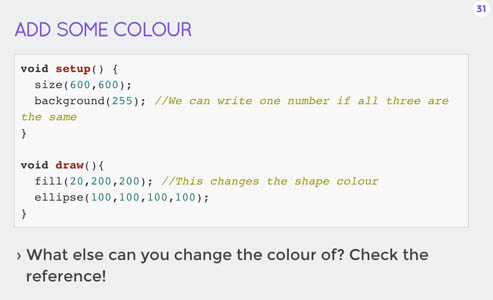
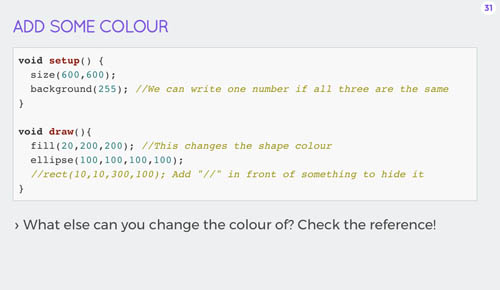
added notes

diff --git a/notes-en.html b/notes-en.html
@@ -216,7 +216,10 @@
               <td> If we want to know what Processing can do, or what it already knows, we can check here.
               <br><br>
               Throughout the workshop, if you want to figure out how to do something, check the reference first! You'll probably be able to find it here by looking for key words. (e.g. if you want to draw a rectangle)
-              <br><br>(Show learners how to use Ctrl+F to search for key words in the reference)</td>
+              <br><br>(Show learners how to use Ctrl+F to search for key words in the reference)
+              <br><br>(When presenting the example resources to the class, make sure you highlight the different shapes that can be drawn in Processing.
+              Show the class the shape primitives or even look at [https://processing.org/tutorials/drawing/] for examples of how to use them.)
+              </td>
             </tr><tr>
               <td><img src="framework/img/workshop/slides/29.jpg" alt="slide"></td>
               <td> (Show learners where the ellipse is in the reference and encourage them to change the numbers for each value to something else - or try to draw another shape e.g. a rectangle)</td>
@@ -233,7 +236,8 @@
               RGB colours are additive, which means that adding full colour (255 of everything) makes white (pure light). When we take away all of the color we get black.</td>
             </tr><tr>
               <td><img src="framework/img/workshop/slides/31.jpg" alt="slide"></td>
-              <td> We need to tell the computer what colour the circle is before we draw it. Try making two circles that are each a different colour. </td>
+              <td> We need to tell the computer what colour the circle is before we draw it. Try making two circles that are each a different colour.
+              <br><br> *Side note*: If you ever want to get rid of a shape that you've drawn, either delete that line of code, or make it into a comment using "//"</td>
             </tr><tr>
               <td><img src="framework/img/workshop/slides/32.jpg" alt="slide"></td>
               <td> (Show learners how to save)
@@ -480,105 +484,109 @@
     ##Code-Along Slides
 
     <table style="font-size:2rem;">
-      <tr>
-        <td><strong style="background:#8b31e0; color:white; font-size:3.2rem;">Slide</strong></td>
-        <td><strong style="background:#8b31e0; color:white; font-size:3.2rem;">Notes</strong></td>
-      </tr>
-      <tr>
-        <td><img src="framework/img/workshop/slides/22.jpg" alt="slide"></td>
-        <td> Time for our Code-Along!</td>
-      </tr><tr>
-        <td><img src="framework/img/workshop/slides/23.jpg" alt="slide"></td>
-        <td> We are using OpenProcessing to save our Processing sketches today. OpenProcessing is a free, online environment where you can share your digital art and explore projects created by other poeple. </td>
-      </tr><tr>
-        <td><img src="framework/img/workshop/slides/24.jpg" alt="slide"></td>
-        <td> (Leave this slide up while learners log in)</td>
-      </tr><tr>
-        <td><img src="framework/img/workshop/slides/25.jpg" alt="slide"></td>
-        <td> *Very important*: Be sure to select "Processing.js" mode (under Settings). The P5.js starting code will no longer work, so we can delete this.</td>
-      </tr><tr>
-        <td><img src="framework/img/workshop/slides/26.jpg" alt="slide"></td>
-        <td> Type in this code, then click "Run" (play icon at top). This is how we set up our canvas.
-        <br><br>
-        Try changing the numbers from 600 to something else.</td>
-      </tr><tr>
-        <td><img src="framework/img/workshop/slides/27.jpg" alt="slide"></td>
-        <td> Let's draw something! What does this code do?
-        <br><br>
-        *Side note*: Everything behind the //backslashes are comments - this is for us humans to remember what each line of code means. You don't need to copy all of the comments on our slides, but it is helpful to make comments in your code when you need a reminder of what something does. </td>
-      </tr><tr>
-        <td><img src="framework/img/workshop/slides/28.jpg" alt="slide"></td>
-        <td> If we want to know what Processing can do, or what it already knows, we can check here.
-        <br><br>
-        Throughout the workshop, if you want to figure out how to do something, check the reference first! You'll probably be able to find it here by looking for key words. (e.g. if you want to draw a rectangle)
-        <br><br>(Show learners how to use Ctrl+F to search for key words in the reference)</td>
-      </tr><tr>
-        <td><img src="framework/img/workshop/slides/29.jpg" alt="slide"></td>
-        <td>  (Show learners where the ellipse is in the reference and encourage them to change the numbers for each value to something else - or try to draw another shape e.g. a rectangle)</td>
-      </tr><tr>
-        <td><img src="framework/img/workshop/slides/30.jpg" alt="slide"></td>
-        <td> Time to add some colour (woo!). Each of these options have the letters R,G,B in brackets... What does that mean?
-        <br><br>
-        (Open up colorpicker.com up front)
-        <br><br>
-        Q: What colour is (255,255,255)? A: White
-        <br>
-        Q: What colour is (0,0,0)? A: Black
-        <br><br>
-        RGB colours are additive, which means that adding full colour (255 of everything) makes white (pure light). When we take away all of the color we get black.</td>
-      </tr><tr>
-        <td><img src="framework/img/workshop/slides/31.jpg" alt="slide"></td>
-        <td> We need to tell the computer what colour the circle is before we draw it. Try making two circles that are each a different colour. </td>
-      </tr><tr>
-        <td><img src="framework/img/workshop/slides/32.jpg" alt="slide"></td>
-        <td> (Show learners how to save)
-        <br><br>
-        Make sure you click Publish after naming your sketch. You can keep editing it afterwards - just click on the "Edit" icon at the top to keep coding.</td>
-      </tr><tr>
-        <td><img src="framework/img/workshop/slides/33.jpg" alt="slide"></td>
-        <td> (Review X,Y coordinates using the Stretch &amp; Scuttle Unplugged Activity)
+        <tr>
+          <td><strong style="background:#8b31e0; color:white; font-size:3.2rem;">Slide</strong></td>
+          <td><strong style="background:#8b31e0; color:white; font-size:3.2rem;">Notes</strong></td>
+        </tr>
+        <tr>
+          <td><img src="framework/img/workshop/slides/22.jpg" alt="slide"></td>
+          <td> Time for our Code-Along!</td>
+        </tr><tr>
+          <td><img src="framework/img/workshop/slides/23.jpg" alt="slide"></td>
+          <td> We are using OpenProcessing to save our Processing sketches today. OpenProcessing is a free, online environment where you can share your digital art and explore projects created by other poeple. </td>
+        </tr><tr>
+          <td><img src="framework/img/workshop/slides/24.jpg" alt="slide"></td>
+          <td> (Leave this slide up while learners log in)</td>
+        </tr><tr>
+          <td><img src="framework/img/workshop/slides/25.jpg" alt="slide"></td>
+          <td> *Very important*: Be sure to select "Processing.js" mode (under Settings). The P5.js starting code will no longer work, so we can delete this.</td>
+        </tr><tr>
+          <td><img src="framework/img/workshop/slides/26.jpg" alt="slide"></td>
+          <td> Type in this code, then click "Run" (play icon at top). This is how we set up our canvas.
           <br><br>
-          Processing can track the x,y position of our mouse, then use that number in our sketch.
+          Try changing the numbers from 600 to something else.</td>
+        </tr><tr>
+          <td><img src="framework/img/workshop/slides/27.jpg" alt="slide"></td>
+          <td> Let's draw something! What does this code do?
           <br><br>
-          E.g. We can take the Y coordinate of our mouse, then make the circle's width = that number. So the closer to the top of the canvas, the smaller the circle. As we move down (and Y increases) the circle should get larger. - Try it out! </td>
-      </tr><tr>
-        <td><img src="framework/img/workshop/slides/34.jpg" alt="slide"></td>
-        <td> Notice how there are two equal signs? When we use one equal sign we are telling the program what something equals, but when we use two equal signs we are *asking* (having the program check if it is true)
-        <br><br>
-        Q: What is that called again? When something is either True or False? A: Boolean.</td>
-      </tr><tr>
-        <td><img src="framework/img/workshop/slides/35.jpg" alt="slide"></td>
-        <td> (Give learners a few minutes to try and solve this on their own. If someone figures it out, have them come up to the front and share their solution with the group. See next slide for possible solution.)</td>
-      </tr><tr>
-        <td><img src="framework/img/workshop/slides/36.jpg" alt="slide"></td>
-        <td> We are basically drawing a new, blank background on top of our painted canvas.</td>
-      </tr><tr>
-        <td><img src="framework/img/workshop/slides/37.jpg" alt="slide"></td>
-        <td> (Remind everyone to save &amp; click 'publish' again)</td>
-      </tr><tr>
-        <td><img src="framework/img/workshop/slides/38.jpg" alt="slide"></td>
-        <td> Remember "box" from before? What number did we set that variable to, again? (three!)
-        <br><br>
-        Anyone want to guess what this line of code looks like? (Naming the variable and setting it to a number, like before - see next slide for answer)</td>
-      </tr><tr>
-        <td><img src="framework/img/workshop/slides/39.jpg" alt="slide"></td>
-        <td>The program needs to know the new variable before the draw function, so let's put it at the top. (int grow = 1;)
-        <br><br>
-        Next, we need to replace another number with "grow" inside of our paintbrush function.
-        <br><br>
-        Every time "draw" loops through, we want "grow" to increase - to change to a larger number - so it looks like our paintbrush is growing. (grow = grow + 1;)
-        <br><br>
-        Finally, if we want to reset the paintbrush size back to normal, we can make "grow" go back to equaling 1 when we clear the background, in "draw." (grow = 1;) </td>
-      </tr><tr>
-        <td><img src="framework/img/workshop/slides/40.jpg" alt="slide"></td>
-        <td> Let's mix things up a bit! We can make any number random using the Random() function.
-        <br><br>
-        Q: What is the largest number we can use for colours in RGB? A: 255.
-        <br><br>
-        To make our paintbrush change random rainbow colours, we can replace the fill value with random(255).
-        <br><br>
-        e.g. fill(random(255),random(255),random(255))</td>
-      </tr>
+          *Side note*: Everything behind the //backslashes are comments - this is for us humans to remember what each line of code means. You don't need to copy all of the comments on our slides, but it is helpful to make comments in your code when you need a reminder of what something does. </td>
+        </tr><tr>
+          <td><img src="framework/img/workshop/slides/28.jpg" alt="slide"></td>
+          <td> If we want to know what Processing can do, or what it already knows, we can check here.
+          <br><br>
+          Throughout the workshop, if you want to figure out how to do something, check the reference first! You'll probably be able to find it here by looking for key words. (e.g. if you want to draw a rectangle)
+          <br><br>(Show learners how to use Ctrl+F to search for key words in the reference)
+          <br><br>(When presenting the example resources to the class, make sure you highlight the different shapes that can be drawn in Processing.
+          Show the class the shape primitives or even look at [https://processing.org/tutorials/drawing/] for examples of how to use them.)
+          </td>
+        </tr><tr>
+          <td><img src="framework/img/workshop/slides/29.jpg" alt="slide"></td>
+          <td> (Show learners where the ellipse is in the reference and encourage them to change the numbers for each value to something else - or try to draw another shape e.g. a rectangle)</td>
+        </tr><tr>
+          <td><img src="framework/img/workshop/slides/30.jpg" alt="slide"></td>
+          <td> Time to add some colour (woo!). Each of these options have the letters R,G,B in brackets... What does that mean?
+          <br><br>
+          (Open up colorpicker.com up front)
+          <br><br>
+          Q: What colour is (255,255,255)? A: White
+          <br>
+          Q: What colour is (0,0,0)? A: Black
+          <br><br>
+          RGB colours are additive, which means that adding full colour (255 of everything) makes white (pure light). When we take away all of the color we get black.</td>
+        </tr><tr>
+          <td><img src="framework/img/workshop/slides/31.jpg" alt="slide"></td>
+          <td> We need to tell the computer what colour the circle is before we draw it. Try making two circles that are each a different colour.
+          <br><br> *Side note*: If you ever want to get rid of a shape that you've drawn, either delete that line of code, or make it into a comment using "//"</td>
+        </tr><tr>
+          <td><img src="framework/img/workshop/slides/32.jpg" alt="slide"></td>
+          <td> (Show learners how to save)
+          <br><br>
+          Make sure you click Publish after naming your sketch. You can keep editing it afterwards - just click on the "Edit" icon at the top to keep coding.</td>
+        </tr><tr>
+          <td><img src="framework/img/workshop/slides/33.jpg" alt="slide"></td>
+          <td> (Review X,Y coordinates using the Stretch &amp; Scuttle Unplugged Activity)
+            <br><br>
+            Processing can track the x,y position of our mouse, then use that number in our sketch.
+            <br><br>
+            E.g. We can take the Y coordinate of our mouse, then make the circle's width = that number. So the closer to the top of the canvas, the smaller the circle. As we move down (and Y increases) the circle should get larger. - Try it out! </td>
+        </tr><tr>
+          <td><img src="framework/img/workshop/slides/34.jpg" alt="slide"></td>
+          <td> Notice how there are two equal signs? When we use one equal sign we are telling the program what something equals, but when we use two equal signs we are *asking* (having the program check if it is true)
+          <br><br>
+          Q: What is that called again? When something is either True or False? A: Boolean.</td>
+        </tr><tr>
+          <td><img src="framework/img/workshop/slides/35.jpg" alt="slide"></td>
+          <td> (Give learners a few minutes to try and solve this on their own. If someone figures it out, have them come up to the front and share their solution with the group. See next slide for possible solution.)</td>
+        </tr><tr>
+          <td><img src="framework/img/workshop/slides/36.jpg" alt="slide"></td>
+          <td> We are basically drawing a new, blank background on top of our painted canvas.</td>
+        </tr><tr>
+          <td><img src="framework/img/workshop/slides/37.jpg" alt="slide"></td>
+          <td> (Remind everyone to save &amp; click 'publish' again)</td>
+        </tr><tr>
+          <td><img src="framework/img/workshop/slides/38.jpg" alt="slide"></td>
+          <td> Remember "box" from before? What number did we set that variable to, again? (three!)
+          <br><br>
+          Anyone want to guess what this line of code looks like? (Naming the variable and setting it to a number, like before - see next slide for answer)</td>
+        </tr><tr>
+          <td><img src="framework/img/workshop/slides/39.jpg" alt="slide"></td>
+          <td>The program needs to know the new variable before the draw function, so let's put it at the top. (int grow = 1;)
+          <br><br>
+          Next, we need to replace another number with "grow" inside of our paintbrush function.
+          <br><br>
+          Every time "draw" loops through, we want "grow" to increase - to change to a larger number - so it looks like our paintbrush is growing. (grow = grow + 1;)
+          <br><br>
+          Finally, if we want to reset the paintbrush size back to normal, we can make "grow" go back to equaling 1 when we clear the background, in "draw." (grow = 1;) </td>
+        </tr><tr>
+          <td><img src="framework/img/workshop/slides/40.jpg" alt="slide"></td>
+          <td> Let's mix things up a bit! We can make any number random using the Random() function.
+          <br><br>
+          Q: What is the largest number we can use for colours in RGB? A: 255.
+          <br><br>
+          To make our paintbrush change random rainbow colours, we can replace the fill value with random(255).
+          <br><br>
+          e.g. fill(random(255),random(255),random(255))</td>
+        </tr>
     </table>
 
     </script>

diff --git a/slides-en.html b/slides-en.html
@@ -510,6 +510,7 @@
         void draw(){
           fill(20,200,200); //This changes the shape colour
           ellipse(100,100,100,100);
+          //rect(10,10,300,100); Add "//" in front of something to hide it 
         }
         ```
 
